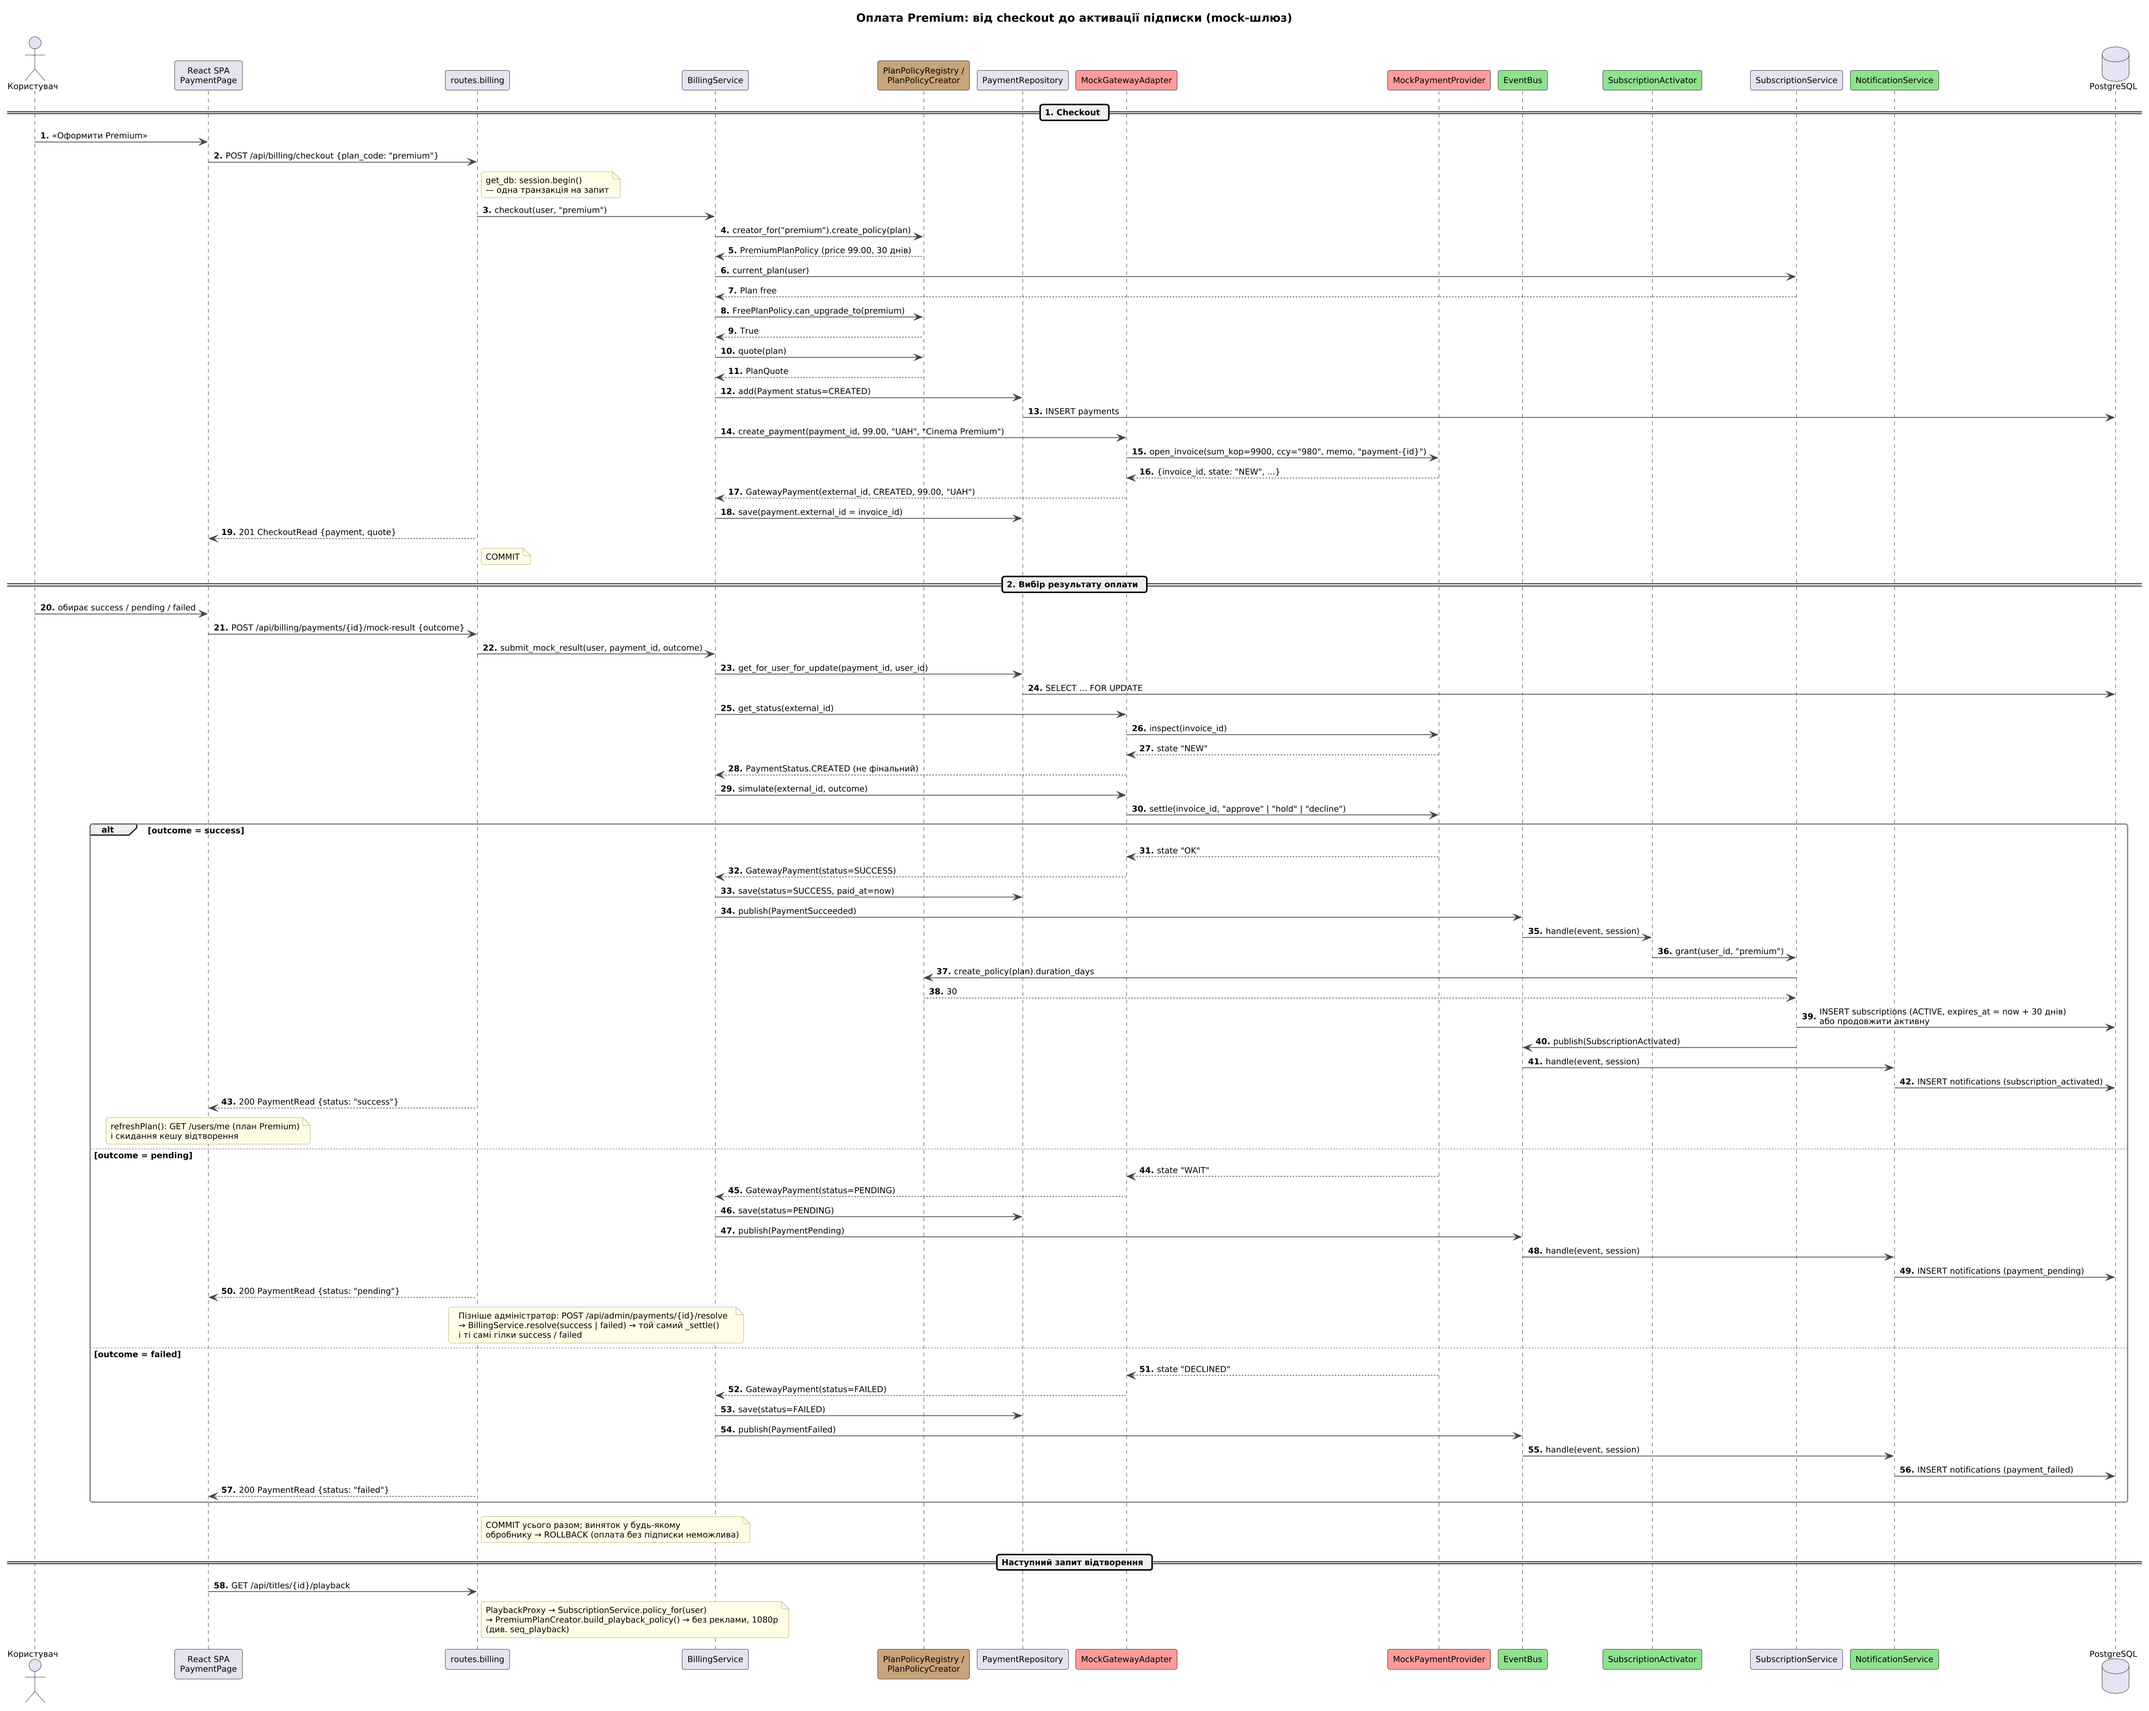
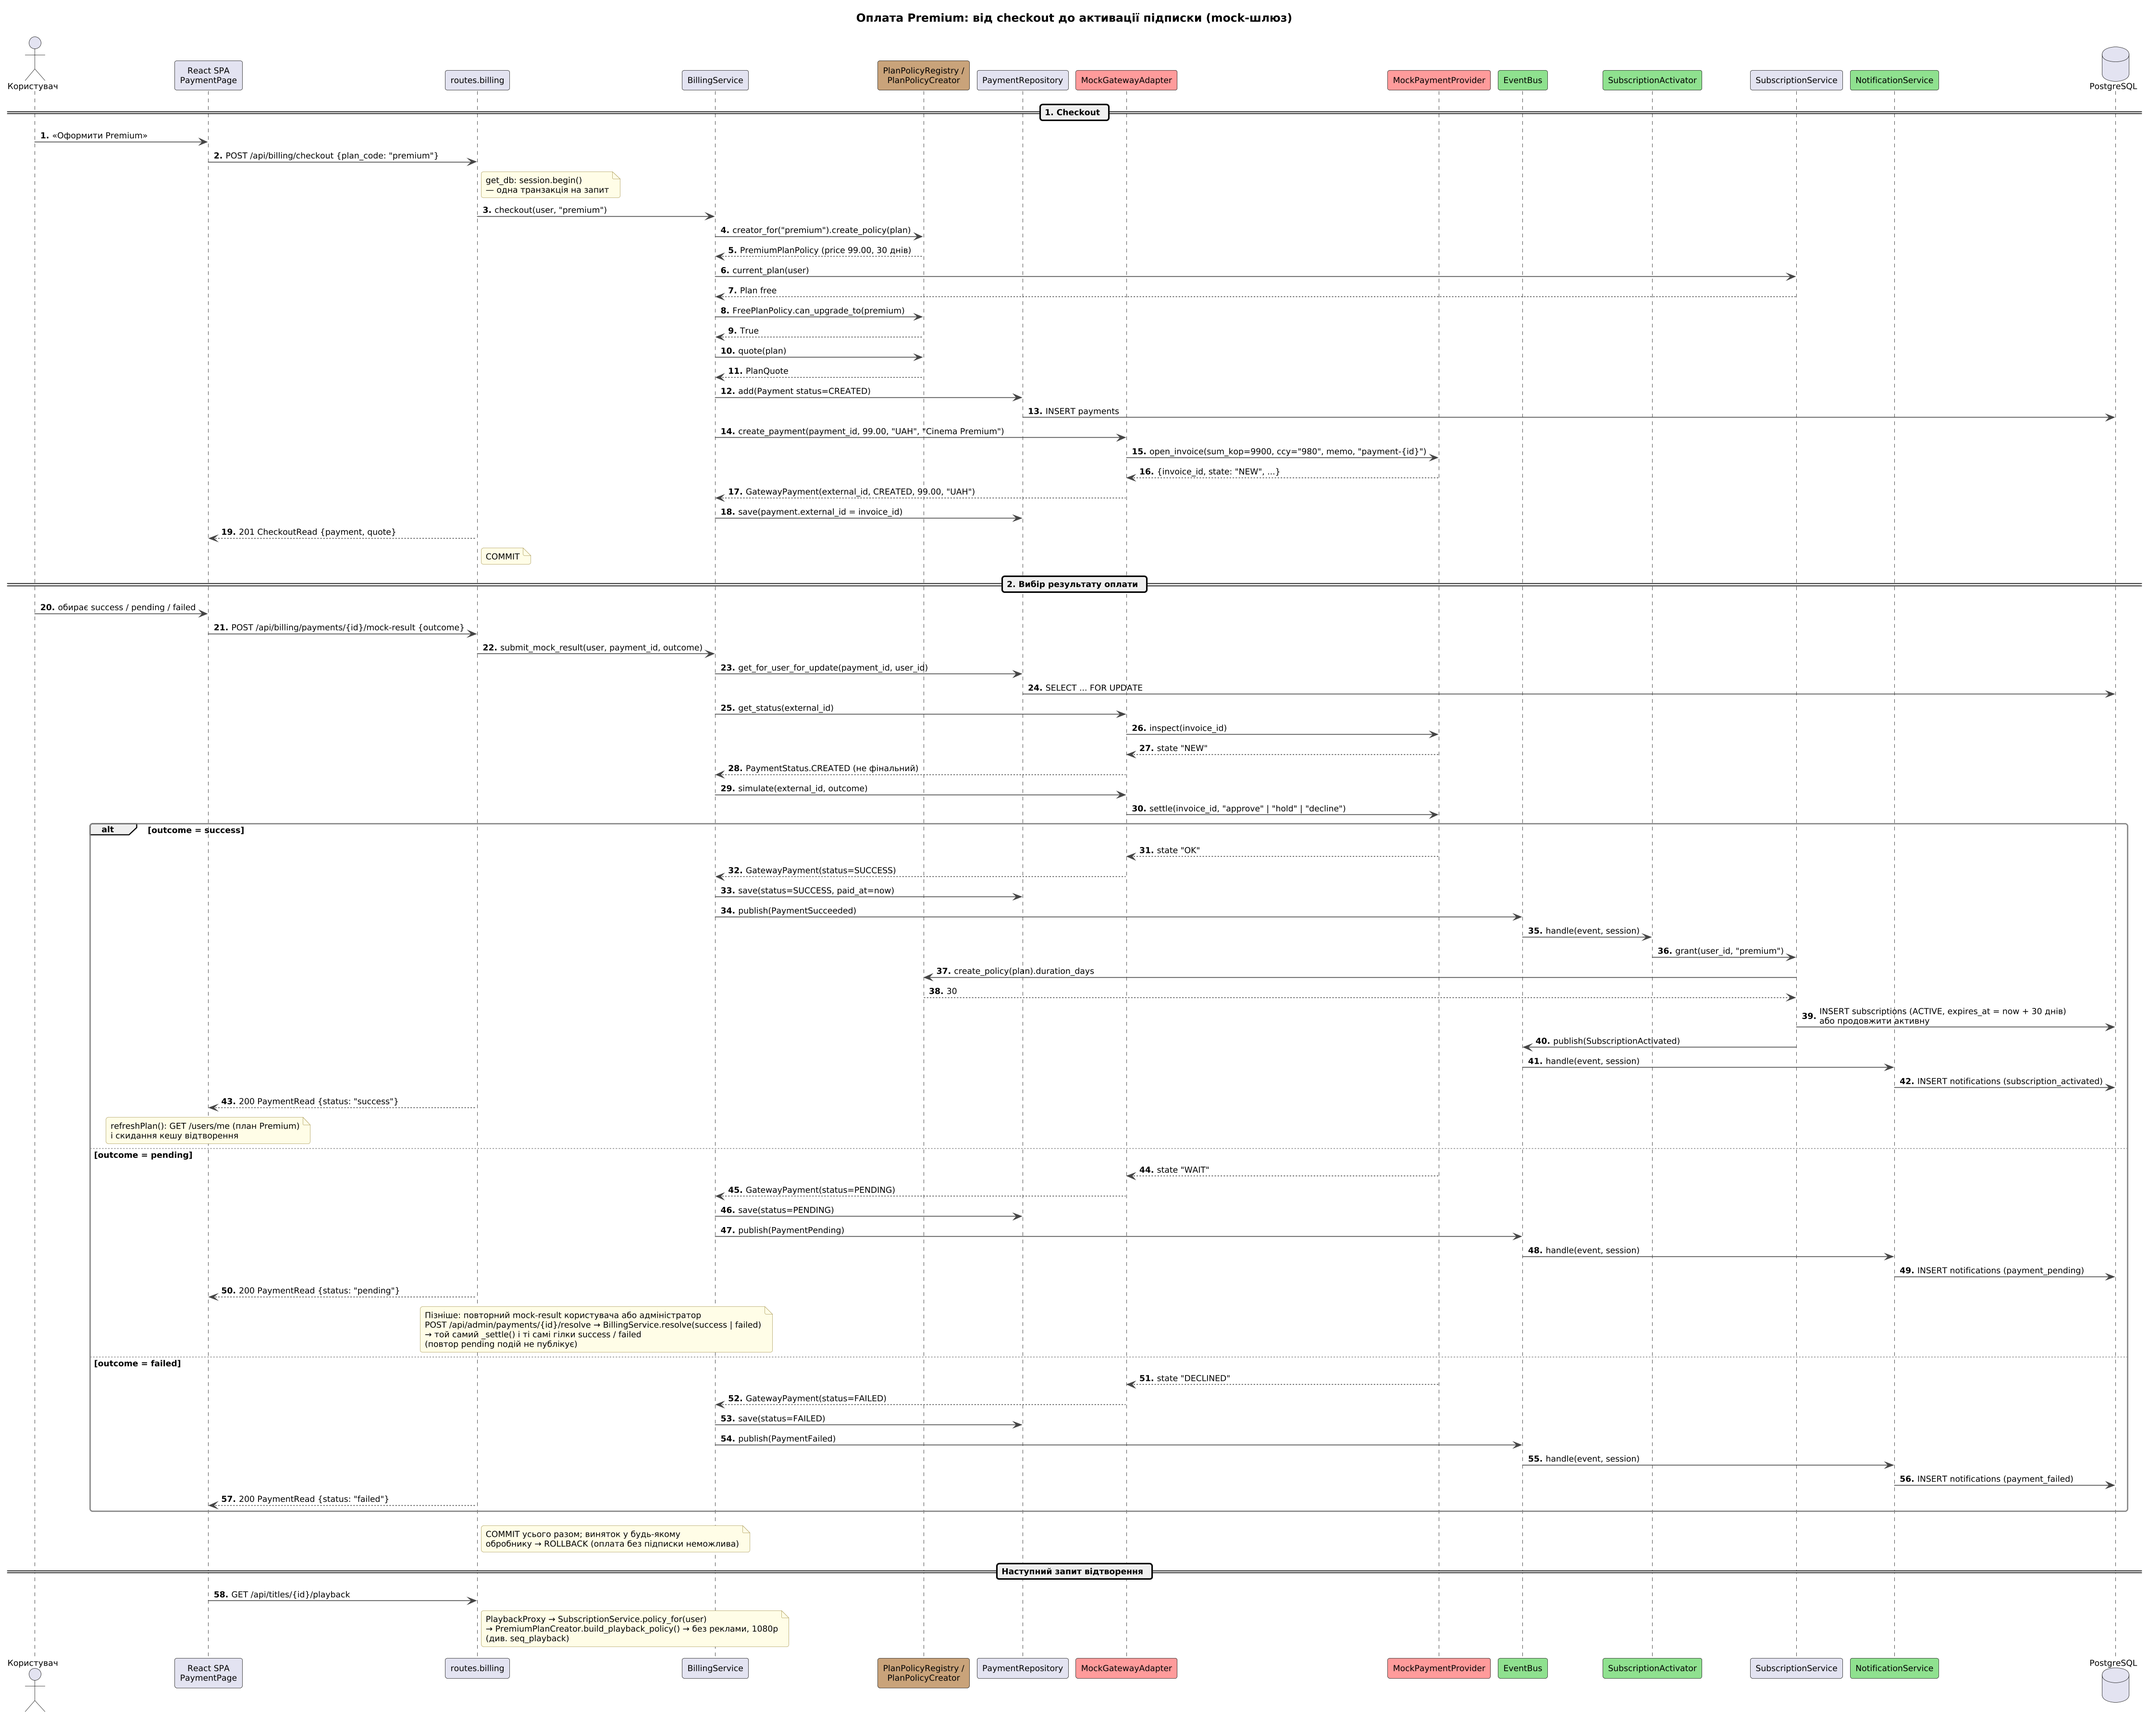
docs(uml): add pattern colour table and pattern collaboration overview

diff --git a/docs/uml/README.md b/docs/uml/README.md
@@ -18,6 +18,21 @@ docker run --rm -e PLANTUML_LIMIT_SIZE=8192 -v "${PWD}/docs/uml:/data" plantuml/
 класів (5382 px завширшки) обрізається. Файл `_style.iuml` маска `*.puml` не зачіпає, він підключається через
 `!include`.
 
+## Зміст
+
+| Діаграма | Файл | Тип UML | Що показує |
+|---|---|---|---|
+| Прецеденти | `use_cases` | Use Case | актори, прецеденти за пакетами, `<<include>>` / `<<extend>>` |
+| Оглядова діаграма класів | `classes_overview` | класів | сім GoF-патернів у кольорах і сервіси, що ними користуються |
+| Шар API | `classes_layer_api` | класів | роутери з ендпоінтами → сервіси |
+| Шари сервісів і даних | `classes_layer_data` | класів | сервіси → порти → репозиторії та інфраструктура (DIP) |
+| Доменна модель | `classes_domain` | класів | моделі SQLAlchemy з кратністю зв'язків |
+| Builder … Template Method | `pattern_*` (7 файлів) | класів | кожен патерн окремо з ролями GoF і примітками |
+| Фізична модель БД | `er` | ER | таблиці, PK/FK, унікальні обмеження, індекси |
+| Оплата | `seq_payment` | послідовності | checkout → шлюз → події → Premium, гілки success / pending / failed |
+| Перегляд | `seq_playback` | послідовності | «Дивитись» → проксі → реклама → master.m3u8 → сегменти HLS |
+| Компоненти і розгортання | `components` | компонентів / розгортання | браузер, Vite, FastAPI, PostgreSQL, ffmpeg, `media/` і протоколи |
+
 ## Діаграми
 
 ### Use Case — `use_cases.png`
@@ -53,6 +68,45 @@ docker run --rm -e PLANTUML_LIMIT_SIZE=8192 -v "${PWD}/docs/uml:/data" plantuml/
 і публікує події в Observer, а `BillingService` об'єднує Factory Method, Adapter і Observer.
 
 Повна діаграма всіх шарів на одному аркуші (60+ класів) виходила нечитабельною, тому шари показано окремо нижче.
+
+#### Патерни на діаграмі
+
+| Патерн | Колір | Класи (роль GoF) | Навіщо в застосунку |
+|---|---|---|---|
+| Factory Method | коричневий `#C8A27A` | `PlanPolicyCreator` (Creator); `FreePlanCreator`, `PremiumPlanCreator` (ConcreteCreator); `PlanPolicy` (Product); `FreePlanPolicy`, `PremiumPlanPolicy` (ConcreteProduct); `PlanPolicyRegistry` | правила плану (реклама, якість, ціна, тривалість, дозволені переходи) в одному місці для оплати, підписок і плеєра; новий план без змін у сервісах |
+| Template Method | жовтий `#FFF27A` | `ReportGenerator` (AbstractClass); `PopularTitlesReport`, `UserActivityReport`, `SubscriptionRevenueReport` (ConcreteClass) | однаковий порядок кроків для всіх звітів: період і часовий пояс, збір, агрегація, підсумок, секції; підкласи змінюють лише кроки й гачки |
+| Observer | зелений `#8EE08E` | `EventBus` (Subject); `EventHandler` (Observer); `SubscriptionActivator`, `NotificationService`, `TitleStatsUpdater` (ConcreteObserver) | наслідки оплати й перегляду (підписка, сповіщення, статистика) без залежності видавця від спостерігачів, в одній транзакції |
+| Builder | помаранчевий `#FFB347` | `CatalogService` (Director); `TitleQueryBuilder` (Builder); `TitleQuery` (Product) | сім необов'язкових фільтрів, сортування й пагінація каталогу збираються в узгоджену пару запитів з перевіркою параметрів |
+| Strategy | блакитний `#8FD3FF` | `RecommendationService` (Context); `RecommendationStrategy` (Strategy); `PopularityStrategy`, `GenreAffinityStrategy`, `SimilarTitlesStrategy`, `HybridStrategy` (ConcreteStrategy); `StrategyRegistry` | алгоритм рекомендацій, ваги гібрида й вікно популярності обирає адміністратор у налаштуваннях без зміни коду |
+| Proxy | фіолетовий `#C9A7FF` | `PlaybackService` (Subject); `RealPlaybackService` (RealSubject); `PlaybackProxy` (Proxy) | перевірка входу, обмеження якості за планом і реклама для Free перед видачею стріму, прозоро для роутера |
+| Adapter | червоний `#FF9B9B` | `PaymentGateway`, `PaymentSimulator` (Target); `MockGatewayAdapter` (Adapter); `MockPaymentProvider` (Adaptee) | `BillingService` не залежить від API провайдера (копійки, коди валют, рядкові стани); реальний банк — новий адаптер |
+
+#### Як патерни працюють разом
+
+**Оплата → Observer → Factory Method → Proxy.** `BillingService.checkout()` бере в Factory Method ціну і дозвіл на
+перехід Free → Premium, а через Adapter відкриває рахунок у провайдера. Коли користувач обирає success, адаптер
+переводить стан `OK` у `PaymentStatus.SUCCESS`, і сервіс публікує `PaymentSucceeded`. Спостерігач
+`SubscriptionActivator` викликає `SubscriptionService.grant()`, який знову через Factory Method дізнається тривалість
+Premium (30 днів) і публікує `SubscriptionActivated` для `NotificationService`. Наступний запит відтворення проходить
+через `PlaybackProxy`: той питає `SubscriptionService.policy_for()`, а ця політика побудована тим самим
+`PremiumPlanCreator.build_playback_policy()`, тож плеєр отримує 1080p без реклами. Жодна ланка не знає про
+наступну: їх з'єднують `PaymentGateway`, `EventPublisher` / `EventHandler` і `PlaybackPolicyProvider`.
+
+**Перегляд → Observer → статистика → Strategy.** Плеєр кожні 10 с надсилає прогрес. На переході «не завершено →
+завершено» `HistoryService` публікує `WatchFinished`, а `TitleStatsUpdater` оновлює `title_stats` і
+`title_viewers`. `RecommendationRepository.popular()` бере ці агрегати як загальну популярність тайтла:
+`PopularityStrategy` ранжує за ними, коли в обраному вікні переглядів немає, і розв'язує ними нічиї, а
+`HybridStrategy` змішує популярність із жанровими вподобаннями та схожістю з вагами з `app_settings`.
+
+**Звіти (Template Method) читають дані Observer і Adapter.** `SubscriptionRevenueReport` рахує дохід, платежі за
+статусами й платників із `payments.status` і `payments.paid_at`. Ці поля `BillingService` заповнює за результатом,
+який повернув адаптер шлюзу. Кількість активних Premium звіт і дашборд беруть із `subscriptions`. Ці записи створює
+спостерігач `SubscriptionActivator` після оплати, а також адміністратор, коли видає Premium вручну. `PopularTitlesReport` і `UserActivityReport` читають `watch_history` і
+`favorites` напряму, бо їм потрібні значення за довільний період, а `title_stats` зберігає лише підсумок за весь час.
+Порядок кроків у всіх трьох звітах однаковий, тому часовий пояс із налаштувань (`SettingsService`) і CSV-експорт
+працюють для кожного звіту без окремого коду.
+
+Builder живе окремо: каталог лише читає ті самі таблиці й від інших патернів не залежить.
 
 ### Шар API — `classes_layer_api.png`
 
